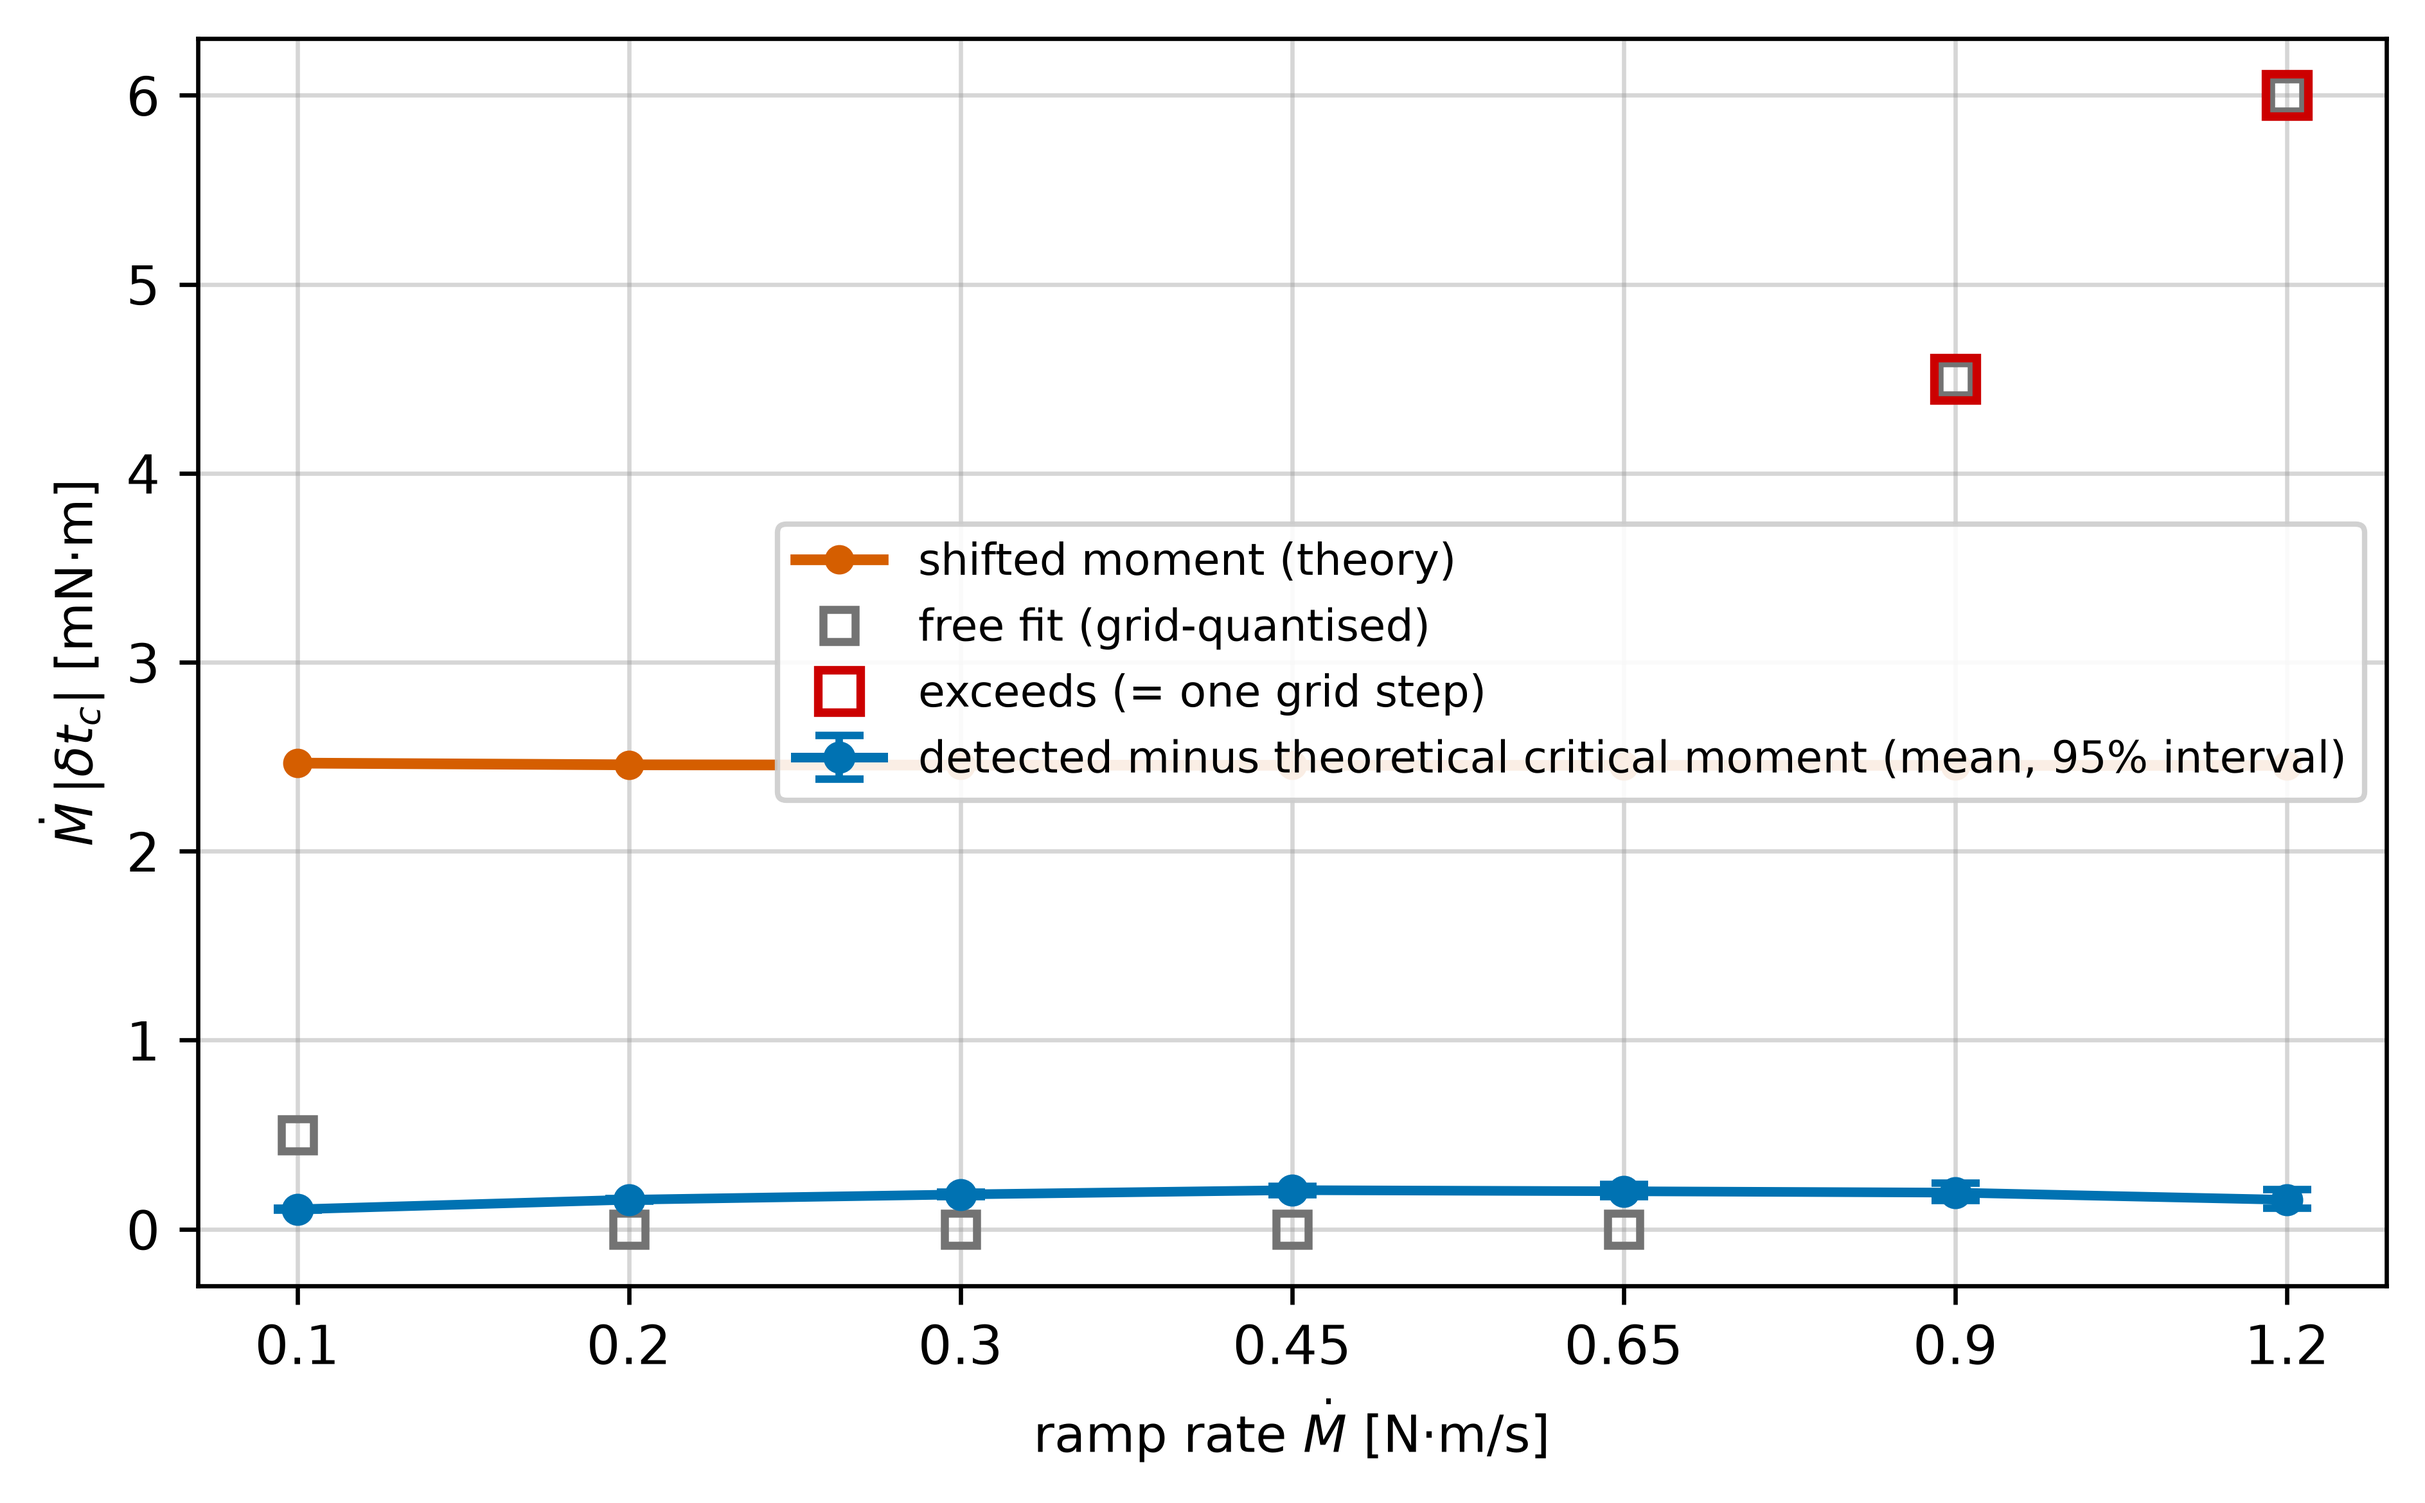
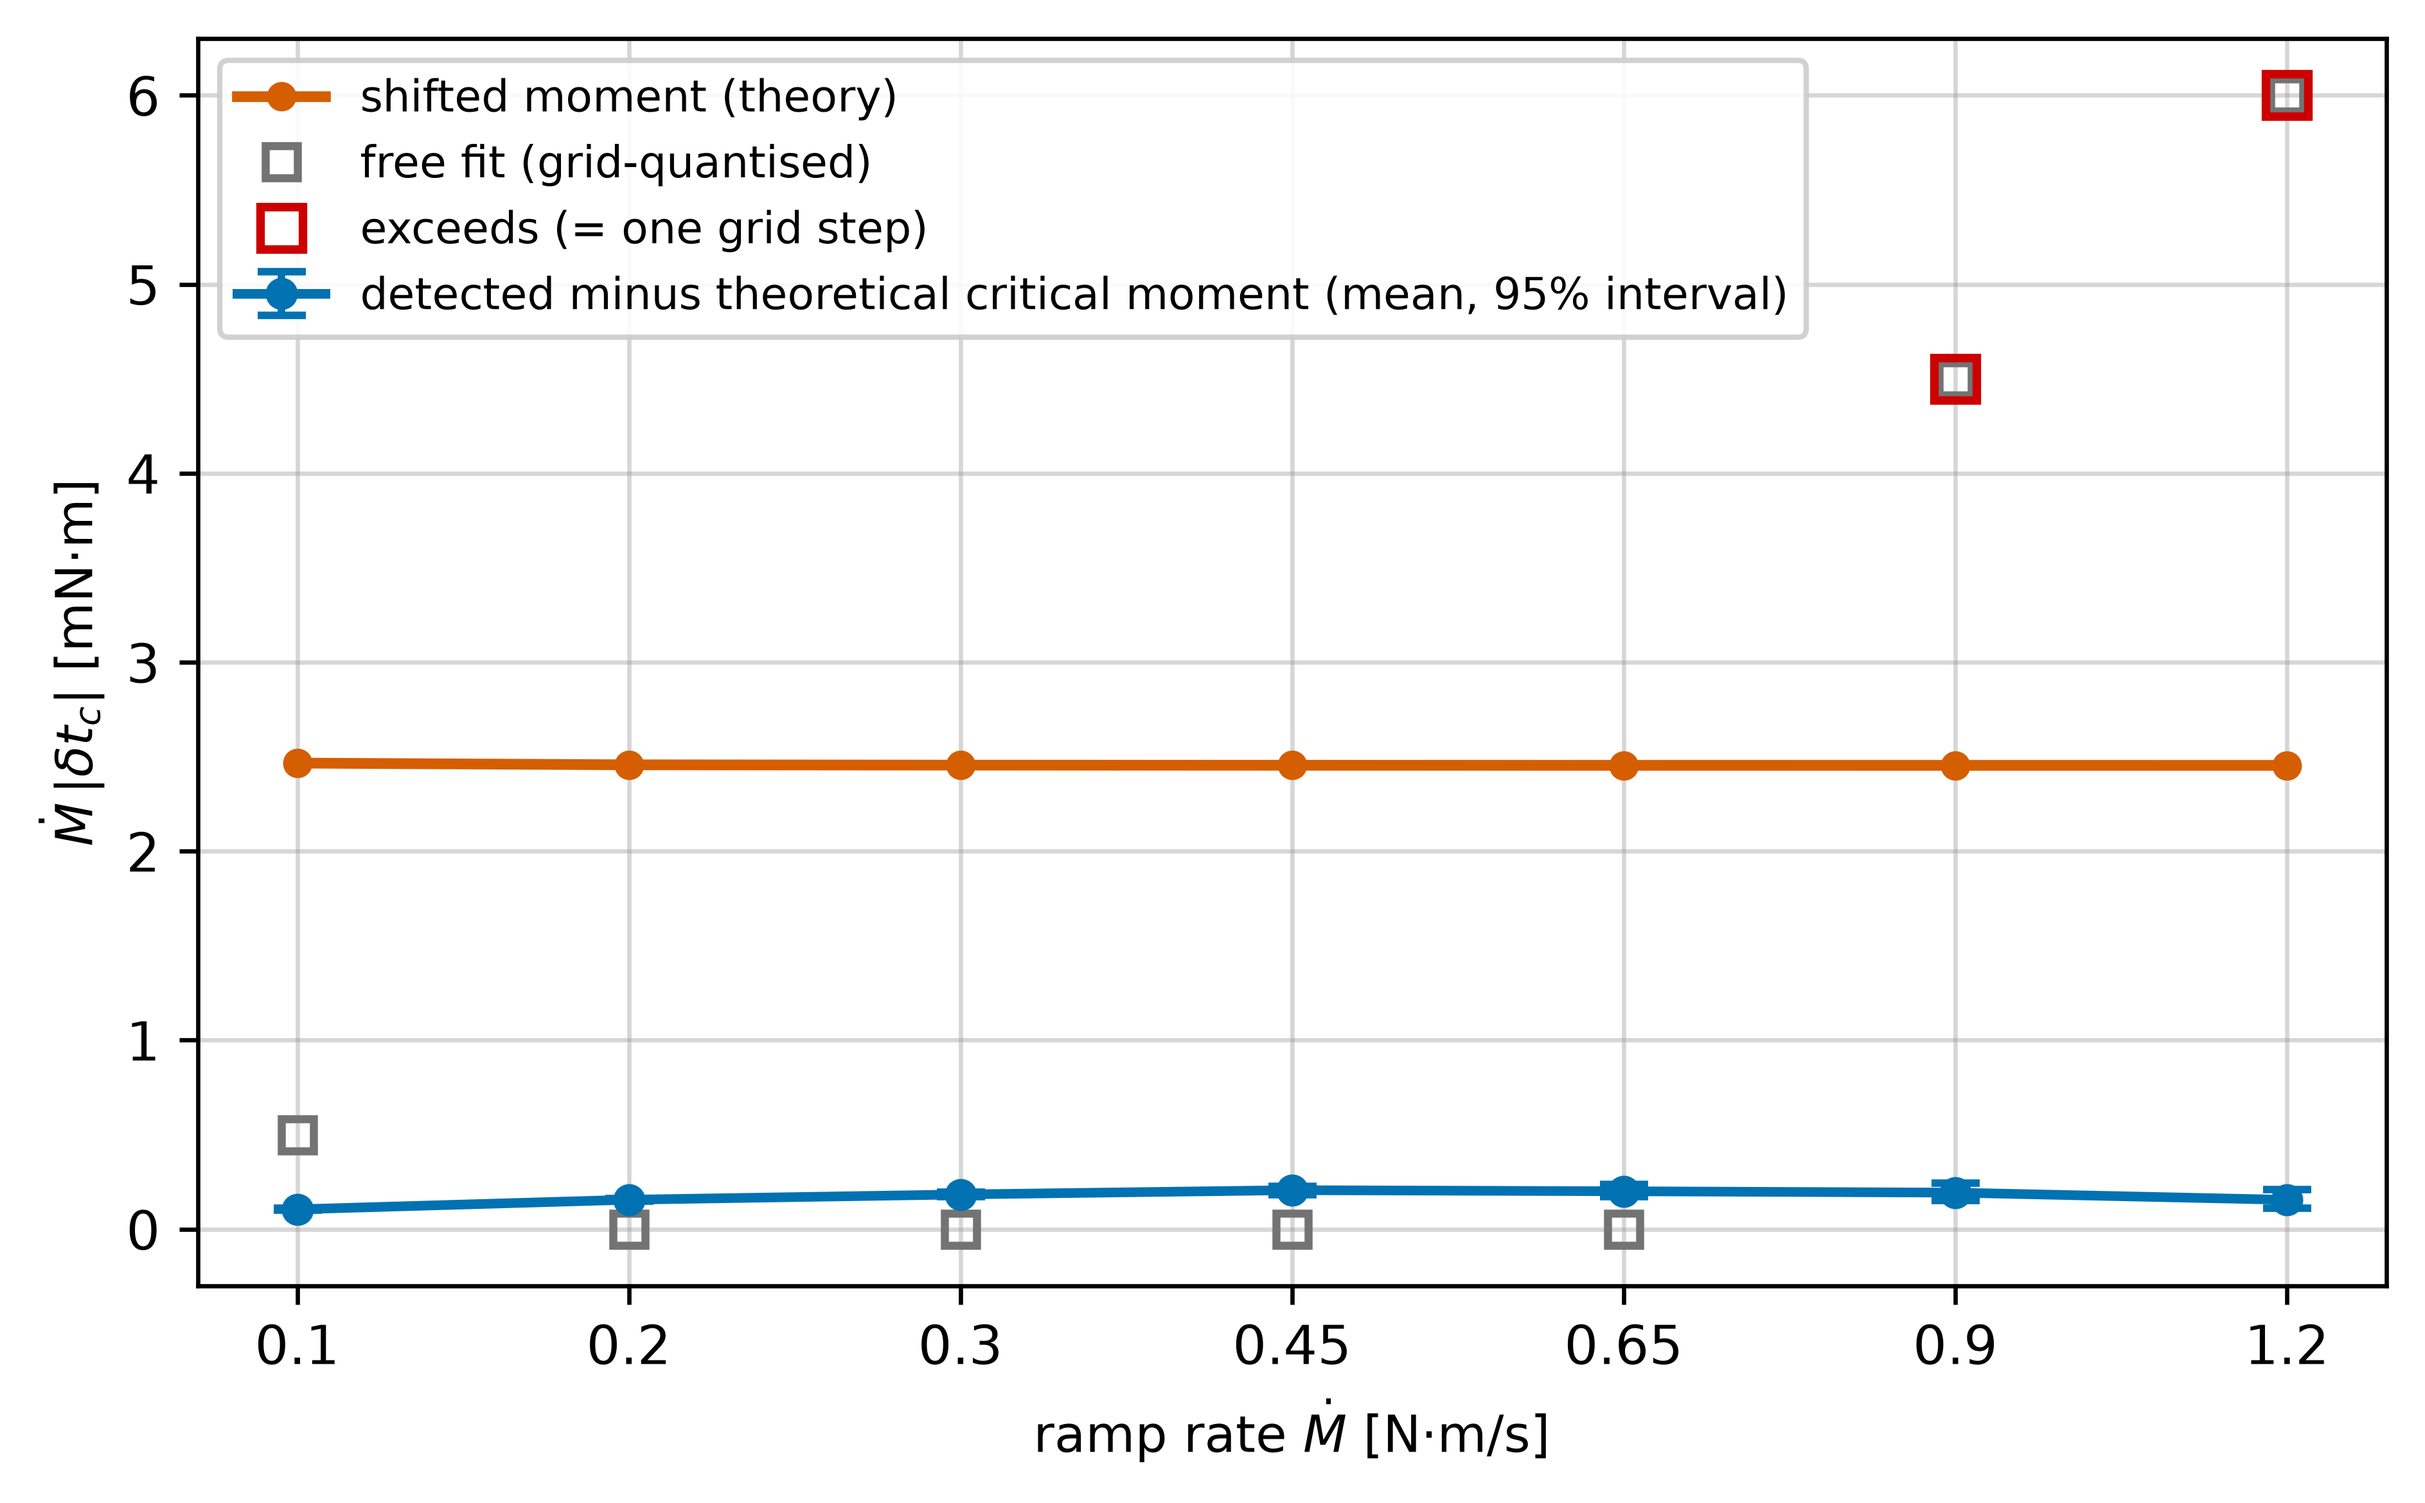
Move the shift-figure legend to the empty upper-left corner
Claude-Session: https://claude.ai/code/session_01BM6bcsm1ZtLtgegEeuFDVS

diff --git a/analysis/shift_validation_fig.py b/analysis/shift_validation_fig.py
@@ -91,7 +91,7 @@ def main():
     ax.set_ylabel(r'$\dot M\,|\delta t_c|$ [mN·m]', fontsize=9.5)
     ax.grid(alpha=0.4, lw=0.8, color='0.6')
     ax.set_axisbelow(True)
-    ax.legend(fontsize=8.2, loc='center right', framealpha=0.9)
+    ax.legend(fontsize=8.2, loc='upper left', framealpha=0.9)
     fig.tight_layout()
     fig.savefig(args.outdir / 'fig_shift_validation.png',
                 bbox_inches='tight', dpi=600)
